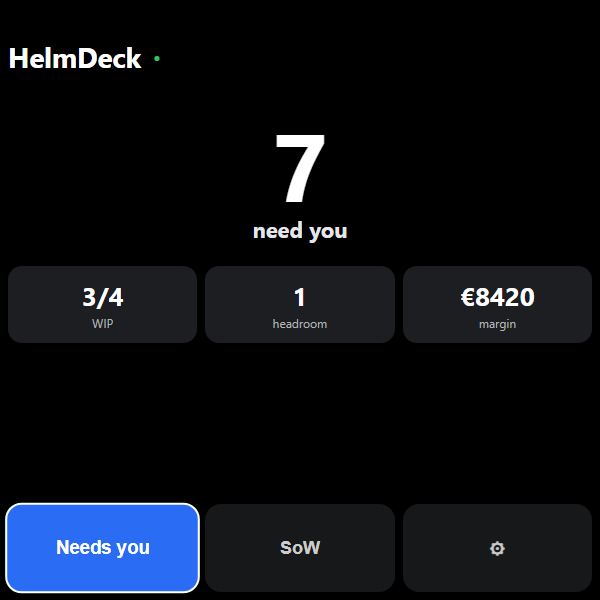
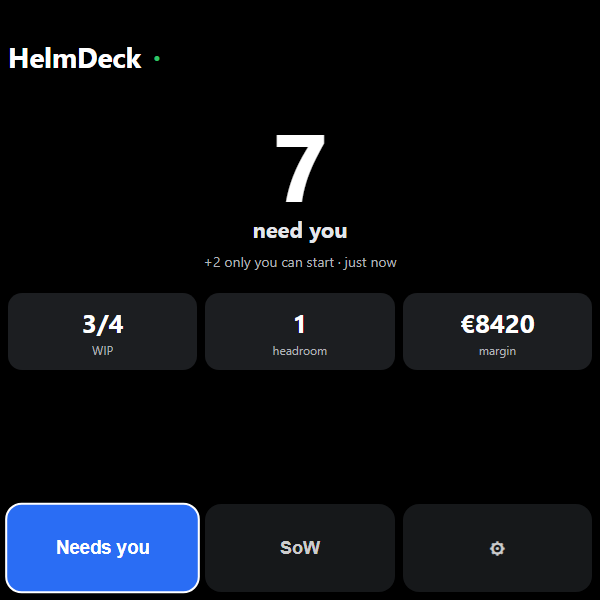
feat(glance): the two cases the first pass left open - manual work, and staleness
Second pass on /glance completeness. The first commit closed the six blocked-on-
you states the feed was dropping; the audit listed two gaps it deliberately did
not close. Both are real, so close them - each in the way that does NOT cost the
signal the first pass bought.

1. WORK ONLY THE OWNER CAN START (`yours`)

   Cards in mode human/teach/cowork are skipped by EVERY auto-dispatch path -
   pm._backlog:961, pm._chain_ready:1052, pm.activity's todo list:2161,
   processes._advance:317 - and teach/human get no driver at all (MODE_DRIVER).
   Verified in code, not assumed. Nothing will ever move them, and because
   pm.activity excludes them from `next` too, they appeared in NO surface at
   all: not "next up", not "needs you". Invisible work.

   They are UNSTARTED work, not stuck work, so folding them into needs_you
   would bury a red gate under a backlog. sessions.manual_backlog() is a second
   bucket with its own count, ranked below and rendered visibly quieter. An
   ordinary `do` backlog card stays off both lists: the PM will get to it, so it
   is queued, not blocked.

2. STALENESS ("und aktuell")

   The payload was correct at read time - fresh DB read, liveness derived - but
   said nothing about WHEN. The glasses cache the last response and, per the
   platform's no-idle-intervals guidance, never poll: so a five-hour-old "All
   clear" was indistinguishable from a five-second-old one. That is precisely
   the failure this endpoint exists to prevent.
[…]

Changed region(s): [[0.0, 0.42, 0.99, 0.63]]

diff --git a/glasses/app.js b/glasses/app.js
@@ -6,8 +6,9 @@
 
   var CFG_KEY = 'helmdeck_glance_cfg';
   var cfg = loadCfg();
-  var data = { needs_you: [], econ: {}, sows: [] };
+  var data = { needs_you: [], yours: [], econ: {}, sows: [] };
   var screenStack = ['home'];
+  var fetchedAt = 0;          // ms, local clock: when THIS build last got data
 
   // ---- config (daemon URL + read-only token) --------------------------------
   function loadCfg() {
@@ -30,11 +31,34 @@
     fetch(url, { cache: 'no-store' })
       .then(function (r) { if (!r.ok) throw new Error('HTTP ' + r.status); return r.json(); })
       .then(function (d) {
-        data = d; dot.className = 'ok'; renderHome(); renderNeeds(); renderSow();
+        data = d; fetchedAt = Date.now();
+        dot.className = 'ok'; renderHome(); renderNeeds(); renderSow();
       })
       .catch(function (e) {
-        dot.className = 'err'; toast('Offline: ' + e.message);
+        // keep showing the last data, but STOP claiming it is current: a stale
+        // "all clear" is the one thing this display must never imply
+        dot.className = 'err'; renderHome(); toast('Offline: ' + e.message);
       });
+  }
+
+  // Freshness without a timer. The platform guidance is "no idle intervals"
+  // (battery on a head-worn display), so refresh on the events that mean the
+  // owner is actually LOOKING: the app coming back to the foreground, and
+  // opening the needs list. A glance that silently shows hours-old state is
+  // worse than one that admits it is offline.
+  function refreshIfStale(maxAgeMs) {
+    if (!fetchedAt || Date.now() - fetchedAt > (maxAgeMs || 30000)) refresh();
+  }
+  document.addEventListener('visibilitychange', function () {
+    if (!document.hidden) refreshIfStale(10000);
+  });
+
+  function ageText() {
+    if (!fetchedAt) return '';
+    var s = Math.round((Date.now() - fetchedAt) / 1000);
+    if (s < 45) return 'just now';
+    if (s < 5400) return Math.round(s / 60) + ' min ago';
+    return Math.round(s / 3600) + ' h ago';
   }
 
   // ---- rendering ------------------------------------------------------------
@@ -46,6 +70,13 @@
     setText('stat-wip', (e.wip != null ? e.wip : '–') + '/' + (e.wip_limit != null ? e.wip_limit : '–'));
     setText('stat-head', e.headroom != null ? String(e.headroom) : '–');
     setText('stat-margin', e.margin != null ? cur() + Math.round(e.margin) : '–');
+    // unstarted work only the owner can begin - a SEPARATE line, never folded
+    // into the big number, so a backlog can't drown out a red gate
+    var yours = (e.yours != null) ? e.yours : (data.yours || []).length;
+    var age = ageText();
+    var sub = yours ? ('+' + yours + ' only you can start') : '';
+    if (age) sub = sub ? (sub + ' · ' + age) : age;
+    setText('needs-age', sub);
   }
 
   // WHY the card is blocked on you (daemon: sessions.BLOCKER_REASONS). Older
@@ -80,6 +111,26 @@
       var sub = reasonLabel(c) + ' · ' + (c.client ? c.client : 'internal');
       el.innerHTML = '<div class="li-task">' + esc(c.task || '(untitled)') + '</div>'
         + '<div class="li-sub' + (isBad(c) ? ' neg' : '') + '">' + esc(sub) + '</div>';
+      list.appendChild(el);
+    });
+    renderYours(list);
+  }
+
+  // Cards the machine will NEVER start (mode human/teach/cowork). Below the
+  // blocked ones and visibly quieter: they are work, not alarms.
+  function renderYours(list) {
+    var mine = data.yours || [];
+    if (!mine.length) return;
+    var hd = document.createElement('div');
+    hd.className = 'group-label';
+    hd.textContent = 'Only you can start';
+    list.appendChild(hd);
+    mine.forEach(function (c) {
+      var el = document.createElement('div');
+      el.className = 'list-item muted';
+      el.innerHTML = '<div class="li-task">' + esc(c.task || '(untitled)') + '</div>'
+        + '<div class="li-sub">' + esc((c.mode || 'manual') + ' · '
+          + (c.client ? c.client : 'internal')) + '</div>';
       list.appendChild(el);
     });
   }
@@ -160,7 +211,7 @@
     switch (a) {
       case 'back': goBack(); break;
       case 'refresh': refresh(); toast('Refreshing…'); break;
-      case 'open-needs': showScreen('needs'); break;
+      case 'open-needs': refreshIfStale(15000); showScreen('needs'); break;
       case 'open-sow': showScreen('sow'); break;
       case 'open-settings': fillSettings(); showScreen('settings'); break;
       case 'open-detail': renderDetail(btn.getAttribute('data-id')); showScreen('detail'); break;

diff --git a/glasses/styles.css b/glasses/styles.css
@@ -43,6 +43,9 @@ html, body {
 .hero { text-align: center; padding: 18px 0 10px; }
 .hero-num { font-size: 96px; font-weight: 700; line-height: 1; }
 .hero-label { font-size: 22px; font-weight: 700; color: #E4E6EB; margin-top: 4px; }
+/* how old the number is, plus work only the owner can start - both are
+   context for the hero, never competition with it */
+.hero-sub { font-size: 14px; color: #B0B3B8; margin-top: 8px; min-height: 18px; }
 
 /* stat row */
 .statrow { display: flex; gap: 8px; margin-top: 12px; }
@@ -71,6 +74,14 @@ html, body {
    dispatch. Same red as a negative margin: bad news reads bad at a glance. */
 .li-sub.neg, .detail-meta .neg { color: #FF5A5F; }
 .empty { text-align: center; color: #B0B3B8; font-size: 16px; padding: 40px 12px; }
+/* the "only you can start" group: present, but visibly quieter than a blocker
+   and not focusable - there is nothing to open, it is a reminder */
+.group-label { font-size: 13px; font-weight: 700; color: #B0B3B8;
+  text-transform: uppercase; letter-spacing: .06em; margin: 18px 0 8px 2px; }
+/* quieter than a blocker, but not faint: on an ADDITIVE display dimmer means
+   more transparent, so ambient light eats the difference - 0.65 keeps the
+   hierarchy while staying readable outdoors (base .list-item is 0.8). */
+.list-item.muted { opacity: 0.65; }
 
 /* detail */
 .detail-task { font-size: 22px; font-weight: 700; line-height: 1.35; }

diff --git a/glasses/index.html b/glasses/index.html
@@ -20,6 +20,7 @@
         <div class="hero" id="hero-needs">
           <div class="hero-num" id="needs-num">–</div>
           <div class="hero-label">need you</div>
+          <div class="hero-sub" id="needs-age"></div>
         </div>
         <div class="statrow">
           <div class="stat"><span class="stat-v" id="stat-wip">–</span><span class="stat-l">WIP</span></div>

diff --git a/tests/test_glance_completeness.py b/tests/test_glance_completeness.py
@@ -122,7 +122,19 @@ BOARD = [
     ({"id": "m-archived", "task": "archived bounce", "status": "bounced", "lane": "review",
       "archived": True, "gate_report": ["red"]},
      None),
+    # un-started work: NOT a blocker (see `yours` below) - the PM will get to a
+    # `do` card, and a manual-mode card is its own bucket, not this one
+    ({"id": "m-manual", "task": "Kunden-Workshop halten", "status": "queued",
+      "lane": "backlog", "mode": "human"}, None),
+    ({"id": "m-teach", "task": "Ablauf einmal vormachen", "status": "queued",
+      "lane": "backlog", "mode": "teach"}, None),
+    ({"id": "m-cowork", "task": "Zusammen durchgehen", "status": "queued",
+      "lane": "backlog", "mode": "cowork"}, None),
 ]
+
+# cards the machine STRUCTURALLY never starts - every auto-dispatch path skips
+# these modes (pm._backlog, pm.activity's todo, processes._advance)
+MANUAL_IDS = {"m-manual", "m-teach", "m-cowork"}
 
 TRACKS = [dict(c) for c, _ in BOARD]
 BLOCKED_IDS = {c["id"] for c, r in BOARD if r}
@@ -228,6 +240,63 @@ def test_glance_payload():
     empty = server.glance_payload([], METRICS)
     check(empty["needs_you"] == [] and empty["econ"]["needs_you"] == 0,
           "an idle board really is 'all clear'")
+    check(empty["yours"] == [] and empty["econ"]["yours"] == 0,
+          "...and nothing is waiting on the owner to start it either")
+
+
+def test_manual_backlog_is_its_own_bucket():
+    """Cards the machine will NEVER start (mode human/teach/cowork). They are
+    unstarted work, not stuck work: folding them into needs_you would bury a red
+    gate under a backlog, but dropping them is how they became invisible in
+    EVERY surface at once - pm.activity's todo list excludes them too."""
+    import server
+    print("`yours` - work only the owner can begin:")
+    pay = server.glance_payload([dict(t) for t in TRACKS], METRICS)
+    yours = {c["id"] for c in pay["yours"]}
+    check(yours == MANUAL_IDS, "exactly the manual-mode backlog: %s" % sorted(yours))
+    check(pay["econ"]["yours"] == len(pay["yours"]), "its count matches its list")
+    check(not (yours & {c["id"] for c in pay["needs_you"]}),
+          "never double-counted into needs_you")
+    check(all(c.get("mode") in sessions.MANUAL_MODES for c in pay["yours"]),
+          "each entry says WHICH manual mode it is")
+
+    print("an ordinary backlog card is NOT the owner's move - the PM will get to it:")
+    do_card = {"id": "m-do", "task": "normale Karte", "status": "queued",
+               "lane": "backlog", "mode": "do"}
+    check(server.glance_payload([do_card], METRICS)["yours"] == [],
+          "a `do` card in the backlog stays off both buckets")
+    check(sessions.manual_backlog([dict(t) for t in TRACKS if t["id"] == "m-manual"]
+                                  + [dict(do_card)]) and True, "manual_backlog is callable directly")
+
+    print("a manual card that has STARTED is a normal card again:")
+    started = {"id": "m-manual", "task": "läuft schon", "status": "needs_you",
+               "lane": "working", "mode": "cowork", "waiting_on": "you"}
+    p2 = server.glance_payload([started], METRICS)
+    check(p2["yours"] == [] and len(p2["needs_you"]) == 1,
+          "once started it is a blocker like any other, not 'yours'")
+    check(sessions.manual_backlog(None) == [], "None is handled")
+
+
+def test_freshness_is_on_the_wire():
+    """The glasses cache the last response and a battery display does not poll,
+    so the payload must say WHEN it was true. A stale 'all clear' is the exact
+    failure this endpoint exists to prevent."""
+    import time
+    import server
+    print("the payload stamps itself:")
+    before = int(time.time())
+    pay = server.glance_payload([dict(t) for t in TRACKS], METRICS)
+    check(isinstance(pay.get("ts"), int), "`ts` is an integer epoch")
+    check(before <= pay["ts"] <= int(time.time()) + 1, "`ts` is NOW, not a cached value")
+
+    print("the board is read fresh on every call, never memoised:")
+    board = [{"id": "c-x", "task": "erst blockiert", "status": "bounced",
+              "lane": "review", "gate_report": ["rot"]}]
+    check(len(server.glance_payload(board, METRICS)["needs_you"]) == 1, "blocked -> listed")
+    board[0]["status"] = "accepted"
+    board[0].pop("gate_report")
+    check(server.glance_payload(board, METRICS)["needs_you"] == [],
+          "accepted -> gone on the very next read")
 
 
 def test_phantom_running_is_surfaced():
@@ -287,6 +356,8 @@ def test_surfaces_agree():
 
 test_blocker_truth_table()
 test_glance_payload()
+test_manual_backlog_is_its_own_bucket()
+test_freshness_is_on_the_wire()
 test_phantom_running_is_surfaced()
 test_surfaces_agree()
 

diff --git a/tests/glance_shoot.py b/tests/glance_shoot.py
@@ -54,6 +54,12 @@ BOARD = [
      "lane": "working"},
     {"id": "m-background", "task": "Wartet auf eigenen Task", "client": "",
      "status": "needs_you", "lane": "working", "waiting_on": "background"},
+    {"id": "y-workshop", "task": "Onboarding-Workshop bei Acme halten", "client": "Acme",
+     "status": "queued", "lane": "backlog", "mode": "human"},
+    {"id": "y-teach", "task": "Angebots-Ablauf einmal vormachen", "client": "",
+     "status": "queued", "lane": "backlog", "mode": "teach"},
+    {"id": "m-do", "task": "Normale Backlog-Karte", "client": "", "status": "queued",
+     "lane": "backlog", "mode": "do"},
 ]
 METRICS = {"capacity": {"wip": 3, "wip_limit": 4, "headroom": 1},
            "totals": {"margin": 8420.0}, "settings": {"currency": "EUR"},
@@ -85,7 +91,10 @@ def main():
     print("payload the UI will render:")
     for c in payload["needs_you"]:
         print("  %-9s %-12s %s" % (c["reason"], c["id"], c["detail"][:60]))
-    print("  econ.needs_you = %d" % payload["econ"]["needs_you"])
+    for c in payload["yours"]:
+        print("  %-9s %-12s %s" % ("yours/" + c["mode"], c["id"], c["task"][:50]))
+    print("  econ.needs_you = %d  econ.yours = %d"
+          % (payload["econ"]["needs_you"], payload["econ"]["yours"]))
 
     httpd = ThreadingHTTPServer(
         ("127.0.0.1", PORT), partial(H, directory=os.path.join(ROOT, "glasses")))
@@ -107,6 +116,16 @@ def main():
         pg.click("[data-action=open-needs]")
         pg.wait_for_timeout(300)
         pg.screenshot(path=os.path.join(SHOTS, "glance_2_needs.png"))
+
+        # the manual-mode group sits below the blockers - scroll to judge it
+        scroller = "#needs .content"           # .content is the scroll box, not the list
+        pg.eval_on_selector(scroller, "e => e.scrollTop = e.scrollHeight")
+        pg.wait_for_timeout(250)
+        pg.screenshot(path=os.path.join(SHOTS, "glance_4_yours.png"))
+        moved = pg.eval_on_selector(scroller, "e => e.scrollTop")
+        print("scrolled to bottom of needs list: %s px" % moved)
+        pg.eval_on_selector(scroller, "e => e.scrollTop = 0")
+        pg.wait_for_timeout(200)
 
         pg.click("[data-id=c-gate]")
         pg.wait_for_timeout(300)

diff --git a/daemon/server.py b/daemon/server.py
@@ -144,8 +144,15 @@ def glance_payload(tracks, m):
     on its own background task is nobody's move but the machine's and stays off
     the glasses.
 
+    `yours` is a SECOND, separate bucket: cards only the owner can ever start
+    (mode human/teach/cowork), which every auto-dispatch path structurally
+    skips. They are unstarted work rather than stuck work, so merging them into
+    needs_you would bury a red gate under a backlog - but leaving them out
+    entirely is how they became invisible everywhere at once.
+
     Split out of do_GET so the selection is testable without a socket - the gap
     this closes is precisely the kind no test could reach before."""
+    import time
     import sessions
     ny = [{"id": t["id"], "task": (t.get("task") or "")[:70],
            "client": t.get("client", ""), "status": t.get("status"),
@@ -155,11 +162,21 @@ def glance_payload(tracks, m):
            "asking": b["reason"] == "question"}
           for t, b in sessions.owner_blockers(tracks)]
     ny.sort(key=lambda c: (GLANCE_RANK.get(c["reason"], 9), c["id"]))
+    yours = [{"id": t["id"], "task": (t.get("task") or "")[:70],
+              "client": t.get("client", ""), "mode": b["mode"]}
+             for t, b in sessions.manual_backlog(tracks)]
     return {
+        # WHEN this was true. The glasses cache the last response and a webapp
+        # on a battery display does not poll, so without a stamp there is no way
+        # to tell a five-second-old "all clear" from a five-hour-old one - and a
+        # stale all-clear is the exact failure this endpoint exists to prevent.
+        "ts": int(time.time()),
         "needs_you": ny,
+        "yours": yours,
         # the home screen's big number and the list are ONE derivation - they
         # cannot disagree the way a separately-counted total could
-        "econ": {"needs_you": len(ny), "wip": m["capacity"]["wip"],
+        "econ": {"needs_you": len(ny), "yours": len(yours),
+                 "wip": m["capacity"]["wip"],
                  "wip_limit": m["capacity"]["wip_limit"],
                  "headroom": m["capacity"]["headroom"],
                  "margin": m["totals"]["margin"],

diff --git a/daemon/sessions.py b/daemon/sessions.py
@@ -699,6 +699,36 @@ def blocker(t):
     return {"reason": "delivered", "detail": _blocker_text(t.get("last_reply"))}
 
 
+# Modes the machine STRUCTURALLY refuses to start: every auto-dispatch path
+# excludes them (pm._backlog, pm._chain_ready, pm.activity's todo list,
+# processes._advance), and teach/human get no driver at all (MODE_DRIVER). A
+# `do` card in the backlog is waiting its TURN; one of these is waiting for a
+# human, forever, and nothing anywhere used to say so.
+MANUAL_MODES = ("human", "teach", "cowork")
+
+
+def manual_backlog(tracks):
+    """Un-started cards only the OWNER can ever start, as [(card, why)].
+
+    Deliberately NOT part of blocker(): these are not stuck work, they are
+    unstarted work, and merging them into "what is blocked on me" would bury a
+    red gate under a backlog. They are their own bucket with their own count -
+    complete information, in the right order of alarm.
+
+    An ordinary `do` card in the backlog is absent on purpose: the PM will get
+    to it. These it will never get to."""
+    out = []
+    for t in tracks or ():
+        t = t or {}
+        if t.get("archived") or t.get("status") != "queued":
+            continue
+        if t.get("mode") in MANUAL_MODES:
+            out.append((t, {"reason": "yours", "mode": t.get("mode"),
+                            "detail": _blocker_text(t.get("description")
+                                                    or t.get("task"))}))
+    return out
+
+
 def owner_blockers(tracks):
     """THE surface entry point: every card on `tracks` that is blocked on the
     human, as a list of (card, blocker) - the card as PRESENTED, so a phantom

diff --git a/glasses/README.md b/glasses/README.md
@@ -59,12 +59,27 @@ a one-line `detail`, and the list arrives sorted worst-news-first:
 | `delivered` | finished, handed back for your accept |
 
 A card waiting on its own **background task** is deliberately absent — that one
-is the machine's move, not yours. So is an un-started backlog card: that is
-work, not a blocker.
+is the machine's move, not yours.
 
 Cards whose turn **died** are included. Lifecycle is derived from the runtime's
 own signals, so a card stuck behind a dead process appears the moment it is
 read, rather than whenever the reconciler next sweeps.
+
+`yours` is a **second, separate** list: un-started cards in a mode the machine
+never dispatches (`human`, `teach`, `cowork`) — work only you can begin. It has
+its own count (`econ.yours`) and never merges into `needs_you`, so a backlog
+cannot bury a red gate. An ordinary `do` card in the backlog is on neither list:
+the PM will get to it, so it is queued, not blocked.
+
+## Staleness
+
+The payload carries `ts` (epoch seconds) — when it was true. The webapp runs **no
+idle timers** (battery, per the platform guidance), so it refreshes on the events
+that mean you are actually looking: coming back to the foreground, and opening
+the needs list. The home screen prints the age next to the count, and a failed
+fetch keeps the last data but drops the connection dot to red rather than
+implying it is current. A stale "all clear" is the one thing this display must
+never show.
 
 ## Desktop smoke test
 
